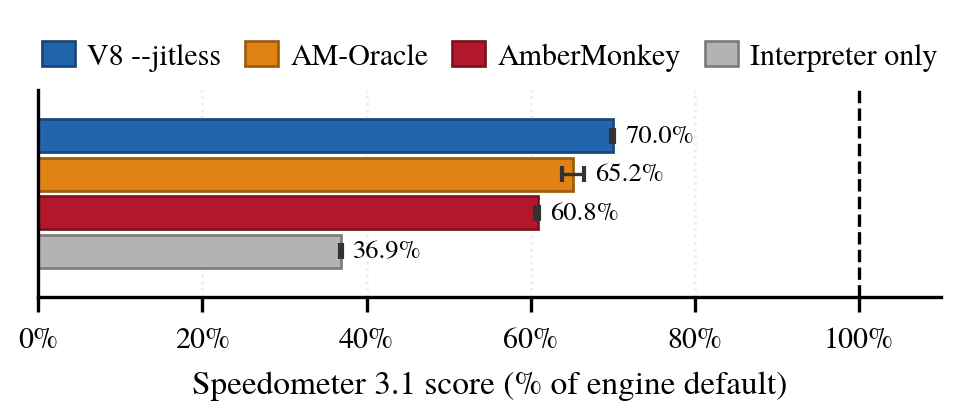
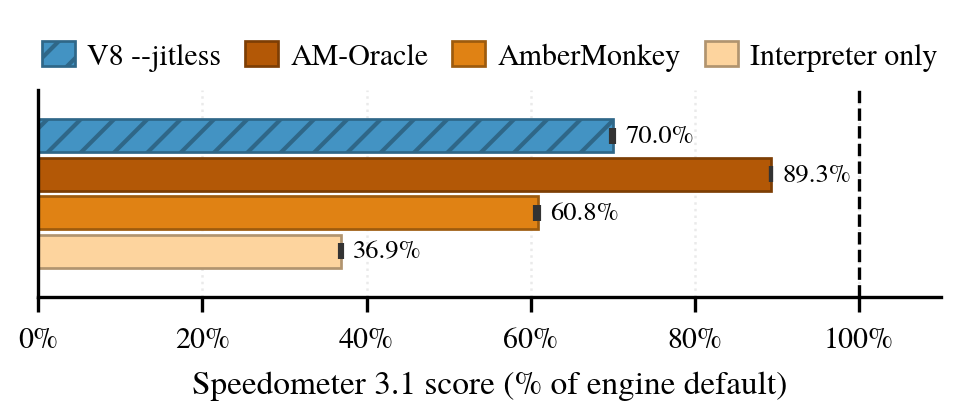
better colors

diff --git a/fossils/7-3-v8-jitless-comparison/figures/jitless_bars.py b/fossils/7-3-v8-jitless-comparison/figures/jitless_bars.py
@@ -45,9 +45,13 @@ CONFIGS = load_configurations()
 
 def sm_bar(data, variant, default_scores, rng):
     scores = run_scores(data.columns[variant])
-    ratio, lower_error, upper_error = bootstrap_ratio_ci(
-        scores, default_scores, rng
-    )
+    if len(scores) >= 2 and len(default_scores) >= 2:
+        ratio, lower_error, upper_error = bootstrap_ratio_ci(
+            scores, default_scores, rng
+        )
+    else:
+        ratio = np.mean(scores) / np.mean(default_scores)
+        lower_error = upper_error = 0.0
     return {
         "slug": variant,
         "ratio": ratio,
@@ -97,7 +101,7 @@ sm_default = run_scores(data.columns[SM_DEFAULT])
 v8_default = run_scores(data.columns[V8_DEFAULT])
 rng = np.random.default_rng(0)
 
-# Top-to-bottom: V8 --jitless, the oracle corpus, AmberMonkey, then interpreter.
+# Top-to-bottom: V8 Jitless, the oracle corpus, AmberMonkey, interpreter.
 bars = [
     sm_bar(data, V8_JITLESS, v8_default, rng),
     oracle_bar(rng),
@@ -121,16 +125,17 @@ top_y = bar_bottoms[0] + BAR_HEIGHT
 ratios = [b["ratio"] for b in bars]
 lower_errors = [b["lower_error"] for b in bars]
 upper_errors = [b["upper_error"] for b in bars]
-# Use an engine-blue / AmberMonkey-burgundy / neutral-grey palette. The
-# AmberMonkey color remains identical to every other evaluation figure.
+# Amber tones identify the SpiderMonkey configurations; hatched blues identify
+# the V8 configurations.
 bar_colors = {
-    V8_JITLESS: "#2166AC",
-    SM_ORACLE: "#E08214",
-    SM_AM: CONFIGS[SM_AM]["color"],
-    SM_INTERP: "#B3B3B3",
+    V8_JITLESS: "#4393C3",
+    SM_ORACLE: "#B35806",
+    SM_AM: "#E08214",
+    SM_INTERP: "#FDD49E",
 }
 colors = [bar_colors[b["slug"]] for b in bars]
 labels = [label_for(b["slug"]) for b in bars]
+hatches = ["///" if b["slug"] == V8_JITLESS else "" for b in bars]
 
 height = 1.38
 fig, ax = plt.subplots(figsize=figure_size("single", height))
@@ -147,8 +152,9 @@ bar_handles = ax.barh(
     label=None,
 )
 # Give each bar its own legend entry (matplotlib groups a single `barh` call).
-for patch, label in zip(bar_handles.patches, labels):
+for patch, label, hatch in zip(bar_handles.patches, labels, hatches):
     patch.set_label(label)
+    patch.set_hatch(hatch)
 
 ax.axvline(1.0, color="black", linewidth=0.8, linestyle="--")
 

diff --git a/fossils/7-3-v8-jitless-comparison/analyses/parse_speedometer.py b/fossils/7-3-v8-jitless-comparison/analyses/parse_speedometer.py
@@ -12,7 +12,8 @@ from benchmarks import manifest, raptor, speedometer3
 PREFIX = "parse_speedometer.py"
 V8_DEFAULT = "v8-default"
 V8_JITLESS = "v8-jitless"
-V8_VARIANTS = {V8_DEFAULT, V8_JITLESS}
+V8_JITLESS_NO_IC = "v8-jitless-no-ic"
+V8_VARIANTS = {V8_DEFAULT, V8_JITLESS, V8_JITLESS_NO_IC}
 
 
 def validate_manifest(m):
@@ -34,9 +35,15 @@ def validate_manifest(m):
         if "chrome.args=--headless=new" not in command:
             manifest.fail(PREFIX, f"{variant}: Chromium headless flag is missing")
 
-        jitless = "chrome.args=--js-flags=--jitless" in command
+        jitless = "--jitless" in command
+        no_ic = "--no-use-ic" in command
         if variant == V8_JITLESS and not jitless:
-            manifest.fail(PREFIX, "v8-jitless: --js-flags=--jitless is missing")
+            manifest.fail(PREFIX, "v8-jitless: --jitless is missing")
+        if variant == V8_JITLESS_NO_IC and (not jitless or not no_ic):
+            manifest.fail(
+                PREFIX,
+                "v8-jitless-no-ic: --jitless and --no-use-ic are required",
+            )
         if variant == V8_DEFAULT and "chrome.args=--js-flags" in command:
             manifest.fail(PREFIX, "v8-default: V8 flags must not be set")
 
@@ -44,6 +51,7 @@ def validate_manifest(m):
             "engine": "v8",
             "jit": "disabled" if jitless else "enabled",
             "jitless": "enabled" if jitless else "disabled",
+            "inline_caches": "disabled" if no_ic else "enabled",
             "pgo": "disabled",
         }
 

diff --git a/fossils/7-3-v8-jitless-comparison/figures/comparison_table.py b/fossils/7-3-v8-jitless-comparison/figures/comparison_table.py
@@ -46,28 +46,29 @@ def sm_summary(scores_by_variant):
 def workload_rows(workload, sm_scores, v8_cols):
     sm = sm_summary(sm_scores)
     sm_default = sm[SM_DEFAULT][0]
-    v8 = {slug: summarize_column(v8_cols[slug]) for slug in (V8_DEFAULT, V8_JITLESS)}
+    v8 = {
+        slug: summarize_column(v8_cols[slug])
+        for slug in (V8_DEFAULT, V8_JITLESS)
+    }
     v8_default = v8[V8_DEFAULT][0]
 
     def ratio(mean, denom):
         return mean / denom if denom else 0.0
 
-    return [
+    rows = [
         make_row(workload, "V8", "default",          *v8[V8_DEFAULT][:2], 1.0 if v8_default else 0.0),
         make_row(workload, "V8", "jitless",          *v8[V8_JITLESS][:2], ratio(v8[V8_JITLESS][0], v8_default)),
         make_row(workload, "SpiderMonkey", "default",         *sm[SM_DEFAULT][:2], 1.0 if sm_default else 0.0),
         make_row(workload, "SpiderMonkey", "interpreter-only", *sm[SM_INTERP][:2], ratio(sm[SM_INTERP][0], sm_default)),
         make_row(workload, "SpiderMonkey", "AmberMonkey",     *sm[SM_AM][:2],     ratio(sm[SM_AM][0], sm_default)),
     ]
+    return rows
 
 
 def main():
     data = load_stdin()
-    validate_records(
-        data,
-        (SM_INTERP, SM_AM, SM_DEFAULT, V8_DEFAULT, V8_JITLESS),
-        "comparison",
-    )
+    required = (SM_INTERP, SM_AM, SM_DEFAULT, V8_DEFAULT, V8_JITLESS)
+    validate_records(data, required, "comparison")
     v8 = load_v8()
 
     sp3_sm_scores = {v: run_scores(data.columns[v]) for v in (SM_INTERP, SM_AM, SM_DEFAULT)}
